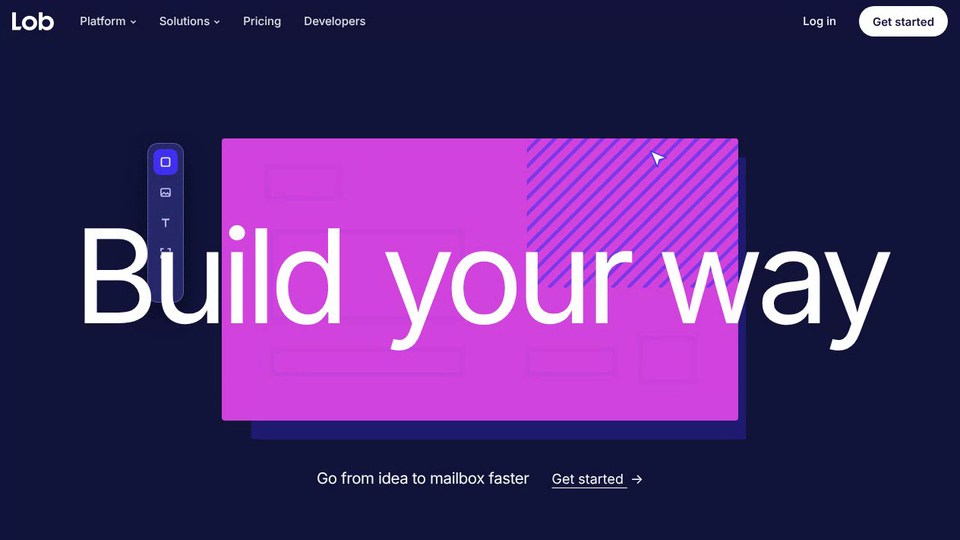
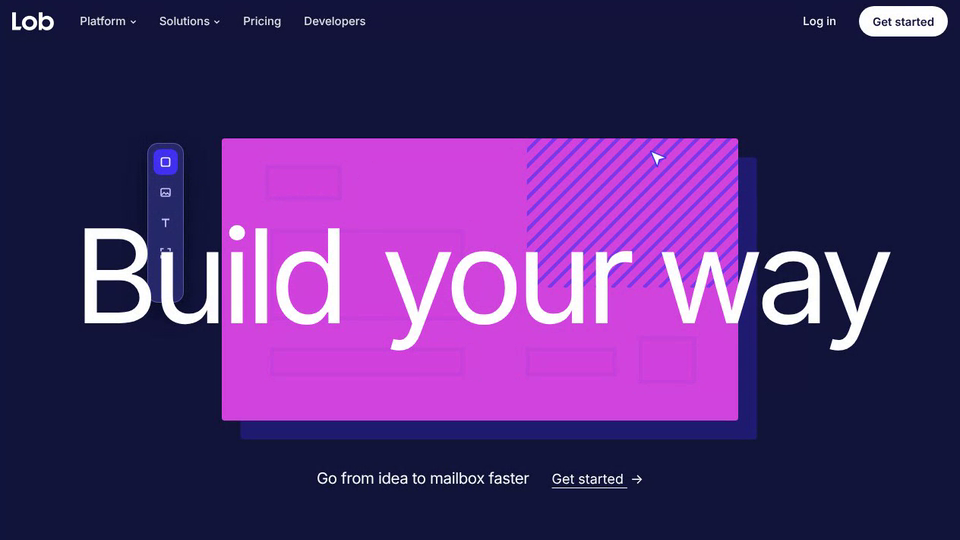
Lob Get Started: even postcard shadow offset, toast closer to the card
Claude-Session: https://claude.ai/code/session_016rpgucWKf3te6zwsCQ1J4C

Changed region(s): [[0.75, 0.5037, 0.8125, 0.8296], [0.75, 0.2963, 0.8125, 0.4741], [0.25, 0.7704, 0.2812, 0.8296]]

diff --git a/lob-get-started/index.html b/lob-get-started/index.html
@@ -87,7 +87,7 @@ html body nav.back:not(.sb-panel):not(:has(>div))>a,html body nav.back:not(.sb-p
 .chipfile .ok{width:22px;height:22px;border-radius:6px;background:var(--lime);display:grid;place-items:center}
 /* hero postcard: abstract blocks -> high fidelity -> bleed + crop -> QA scan -> checks */
 .hc{position:absolute;left:0;top:0;width:700px;height:430px;transform-origin:0 0;--pu:#4131f1;--mint:#c9f0e4;--hot:#d244de}
-.pcv{position:absolute;left:0;top:0;width:700px;height:430px}
+.pcv{position:absolute;left:-100px;top:-40px;width:900px;height:510px}
 .post{position:absolute;left:10px;top:34px;width:680px;height:371px;pointer-events:none}
 .blk{position:absolute;box-sizing:border-box;border:2.5px solid var(--lav);background:rgba(169,156,255,.12);border-radius:6px;opacity:0;transform:scale(.7);transition:opacity .3s,transform .45s cubic-bezier(.2,1.6,.4,1),background .5s,border-color .5s,border-radius .5s}
 .blk.in{opacity:1;transform:none}
@@ -127,7 +127,7 @@ html body nav.back:not(.sb-panel):not(:has(>div))>a,html body nav.back:not(.sb-p
 .bleed i:nth-child(3){right:-22px;top:10px;width:16px;height:2px}.bleed i:nth-child(4){right:10px;top:-22px;width:2px;height:16px}
 .bleed i:nth-child(5){left:-22px;bottom:10px;width:16px;height:2px}.bleed i:nth-child(6){left:10px;bottom:-22px;width:2px;height:16px}
 .bleed i:nth-child(7){right:-22px;bottom:10px;width:16px;height:2px}.bleed i:nth-child(8){right:10px;bottom:-22px;width:2px;height:16px}
-.qa{position:absolute;left:50%;top:-34px;transform:translateX(-50%) translateY(6px);height:30px;padding:0 14px;border-radius:99px;background:#262a6b;color:#fff;display:flex;align-items:center;gap:8px;font:700 11px var(--sans);letter-spacing:.12em;white-space:nowrap;opacity:0;transition:opacity .3s,transform .3s;z-index:3}
+.qa{position:absolute;left:50%;top:-20px;transform:translateX(-50%) translateY(6px);height:30px;padding:0 14px;border-radius:99px;background:#262a6b;color:#fff;display:flex;align-items:center;gap:8px;font:700 11px var(--sans);letter-spacing:.12em;white-space:nowrap;opacity:0;transition:opacity .3s,transform .3s;z-index:3}
 .qa.on{opacity:1;transform:translateX(-50%)}
 .qa i{font-style:normal;font-size:13px;font-weight:700;color:var(--mint)}
 .rail{position:absolute;left:-88px;top:40px;width:48px;padding:7px;border-radius:14px;background:#262a6b;border:1px solid rgba(169,156,255,.4);display:flex;flex-direction:column;gap:6px;box-shadow:0 14px 30px rgba(0,0,0,.35);opacity:0;transform:translateX(-8px);transition:opacity .35s,transform .35s;z-index:3}
@@ -694,7 +694,7 @@ function drawCard(t){
   const radius = lerp(6, 3, d);
   cx.save();
   cx.translate(CW0 / 2, CH0 / 2); cx.scale(grow, grow); cx.translate(-CW0 / 2, -CH0 / 2);
-  rr(50, 32, CW0, CH0, radius); cx.fillStyle = 'rgba(65,49,241,.3)'; cx.fill();   // hard offset shadow, purple at 30%
+  rr(32, 32, CW0, CH0, radius); cx.fillStyle = 'rgba(65,49,241,.3)'; cx.fill();   // hard offset shadow, purple at 30%
   rr(0, 0, CW0, CH0, radius); cx.fillStyle = PINK; cx.fill();
   cx.save(); rr(0, 0, CW0, CH0, radius); cx.clip();
   if (wire > 0) { cx.globalAlpha = wire; hatch(520, -6, 370, 260, PU, 27, 6); cx.globalAlpha = 1; }
@@ -710,10 +710,10 @@ const tog = (el, c, on) => el.classList.toggle(c, !!on);
 function heroAt(t, S){
   const fade = t > LOOP - .5 ? 1 - (t - (LOOP - .5)) / .5 : 1;
   $('#hc').style.opacity = fade;
-  const dpr = Math.min(2, devicePixelRatio || 1), W = Math.round(700 * S * dpr), H = Math.round(430 * S * dpr);
+  const dpr = Math.min(2, devicePixelRatio || 1), W = Math.round(900 * S * dpr), H = Math.round(510 * S * dpr);   // canvas runs 100px past the stage sides so the shadow is never clipped
   if (cv.width !== W || cv.height !== H) { cv.width = W; cv.height = H; }
   cx.setTransform(1, 0, 0, 1, 0, 0); cx.clearRect(0, 0, W, H);
-  cx.setTransform(S * dpr * KS, 0, 0, S * dpr * KS, S * dpr * CX0, S * dpr * CY0);
+  cx.setTransform(S * dpr * KS, 0, 0, S * dpr * KS, S * dpr * (CX0 + 100), S * dpr * (CY0 + 40));
   drawCard(t);
   // tool rail: the tool placing the current element
   tog(HC.rail, 'on', t > .2 && t < 13.1);
